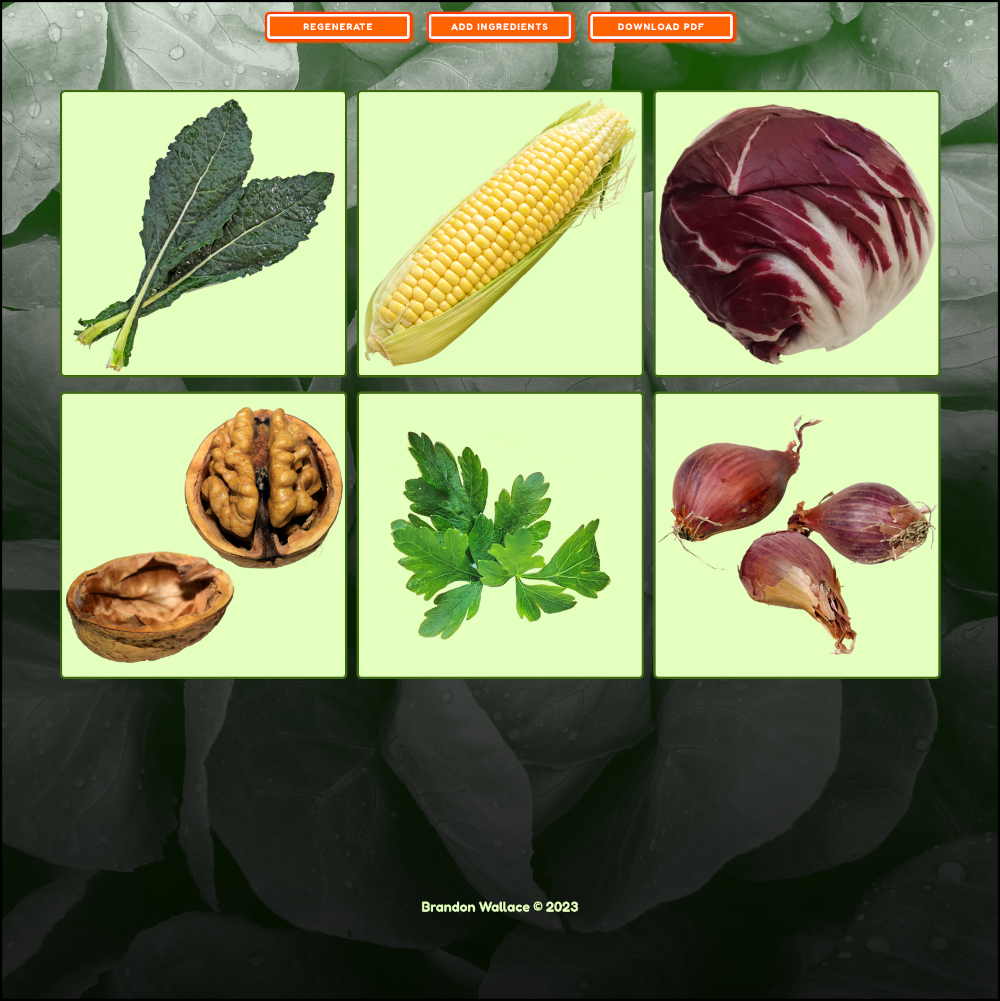
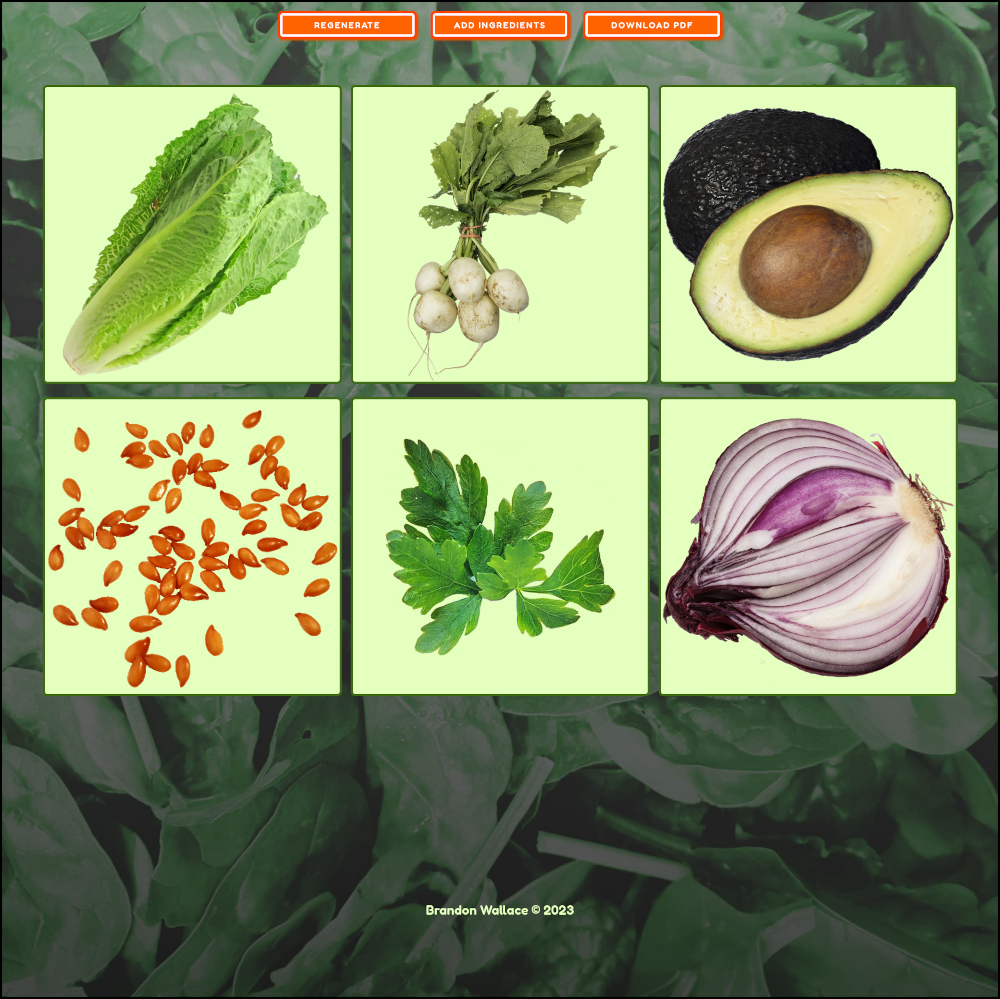
Add new background image

diff --git a/generator.html b/generator.html
@@ -1,0 +1,104 @@
+<!doctype html>
+<html lang="en">
+
+  <head>
+    <meta charset="utf-8">
+    <meta name="viewport" content="width=device-width, initial-scale=1.0">
+    <meta http-equiv="X-UA-Compatible" content="ie=edge">
+    <meta name="author" content="brandon wallace">
+    <meta name="description" content="A mobile first, responsive recipe generator created using Javascript, jspdf, html, and css">
+    <link rel="icon" type="type/png" href="images/favicon.png">
+    <link rel="stylesheet" href="css/style.css">
+    <title>simple salad recipe generator</title>
+  </head>
+
+  <body class="generator">
+
+    <!-- START header -->
+
+    <header>
+
+      <nav>
+
+        <input id="hamburger" type="checkbox">
+        <label for="hamburger"><span class="hamburger__icon"></span></label>
+        <div class="overlay"></div>
+
+        <ul class="menu">
+          <li><a class="menu__link" href="index.html">home</a></li>
+          <li><a class="menu__link" href="generator.html">generate recipe</a></li>
+          <li><a class="menu__link" href="info.html">info</a></li>
+          <li><a class="menu__link" href="about.html">about</a></li>
+          <li><a class="menu__link" href="contact.html">contact</a></li>
+        </ul>
+
+      </nav>
+
+    </header>
+      
+    <!-- END header -->
+
+    <!-- START main -->
+
+    <main class="generator-page">
+
+      <div class="generator">
+
+        <div class="controls">
+          <button onclick="regenerate()">REGENERATE</button>
+          <button onclick="addFlavor()">ADD EXTRA FLAVOR</button>
+          <button onclick="downloadRecipe()">DOWNLOAD</button>
+        </div>
+
+      </div>
+
+      <!-- START section -->
+      
+      <section>
+
+        <div class="slots">
+
+          <div class="slot-container">
+            <img class="slot-img" id="slot1" src="images/slot1.gif" alt="vegetable">
+          </div>
+
+          <div class="slot-container">
+            <img class="slot-img" id="slot2" src="images/slot1.gif" alt="vegetable">
+          </div>
+
+          <div class="slot-container">
+            <img class="slot-img" id="slot3" src="images/slot1.gif" alt="vegetable">
+          </div>
+
+        </div>
+
+        <div class="slots hide" id="extras">
+
+          <div class="slot-container">
+            <img class="slot-img" id="slot4" src="" alt="">
+          </div>
+
+          <div class="slot-container">
+            <img class="slot-img" id="slot5" src="" alt="">
+          </div>
+
+          <div class="slot-container">
+            <img class="slot-img" id="slot6" src="" alt="">
+          </div>
+
+        </div>
+
+      </section>
+      
+      <!-- END section -->
+
+    </main>
+
+    <!-- END main -->
+
+    <script src="js/jspdf.min.js"></script>
+    <script src="js/script.js"></script>
+
+  </body>
+
+</html>

diff --git a/css/style.css b/css/style.css
@@ -10,18 +10,21 @@
 html {font-size: 100%;} 
 
 body {
+    width: 100%;
+    height: 100%;
+    display: flex;
+    align-items: center;
+    padding: 1em 0 2em 0;
+    box-sizing: border-box;
+    justify-content: flex-start;
+    border: 4px solid #011600;
     display: flex;
     font-weight: 400;
     line-height: 1.75;
     min-height: 100vh;
     flex-direction: column;
+    background-color: #b5c3b4;
 }
-
-/* main,
-header,
-footer {
-    border: .5px solid #000000;
-} */
 
 a {
     color: #ffffff;
@@ -39,15 +42,13 @@ img {
 }
 
 .index-page {
-    width: 100%;
-    height: 100%;
-    display: flex;
-    align-items: center;
-    padding: 1em 0 2em 0;
-    box-sizing: border-box;
-    justify-content: flex-start;
-    border: 4px solid #000000;
-    background: linear-gradient(transparent, rgba(0, 0, 0, 0.65), rgba(0, 0, 0, 0.85)), url('../images/lettuce.jpg'), no-repeat;
+    background: linear-gradient(transparent, rgba(0, 0, 0, 0.65), rgba(0, 0, 0, 0.85)), url('../images/lettuce_background.jpg'), no-repeat;
+    background-position: center;
+    background-size: cover;
+}
+
+.generate-page {
+    background: linear-gradient(transparent, rgba(0, 0, 0, 0.55)), url('../images/spinach_background.jpg'), no-repeat;
     background-position: center;
     background-size: cover;
 }
@@ -154,18 +155,18 @@ section {
     padding: 6px;
     font-size: 1rem;
     margin-bottom: .5rem;
-    border: 4px solid #3E6A14;
-    background-color: #599900;
+    /* border: 4px solid #3E6A14;
+    background-color: #599900; */
     border: 4px solid #ff4000;
     background-color: #ff6300;
-    box-shadow: inset 0 0 0 4px #FFFFFF,
-    2px 2px 2px 1px #3E6A14;
+    /* box-shadow: inset 0 0 0 4px #FFFFFF,
+    2px 2px 2px 1px #3E6A14; */
     box-shadow: inset 0 0 0 4px #ffffff,
     2px 2px 2px 1px #dd5500;
 }
 
 .controls .btn:hover {
-    background-color: #315302;
+    /* background-color: #315302; */
     background-color: #ff4000;
 }
 
@@ -177,7 +178,6 @@ section {
     background-color: #e4ffbe;
     border-radius: 8px;
     border: 4px solid #3E6A14;
-    /* border: 4px solid #ff4000; */
 }
 
 .slot-img:hover {
